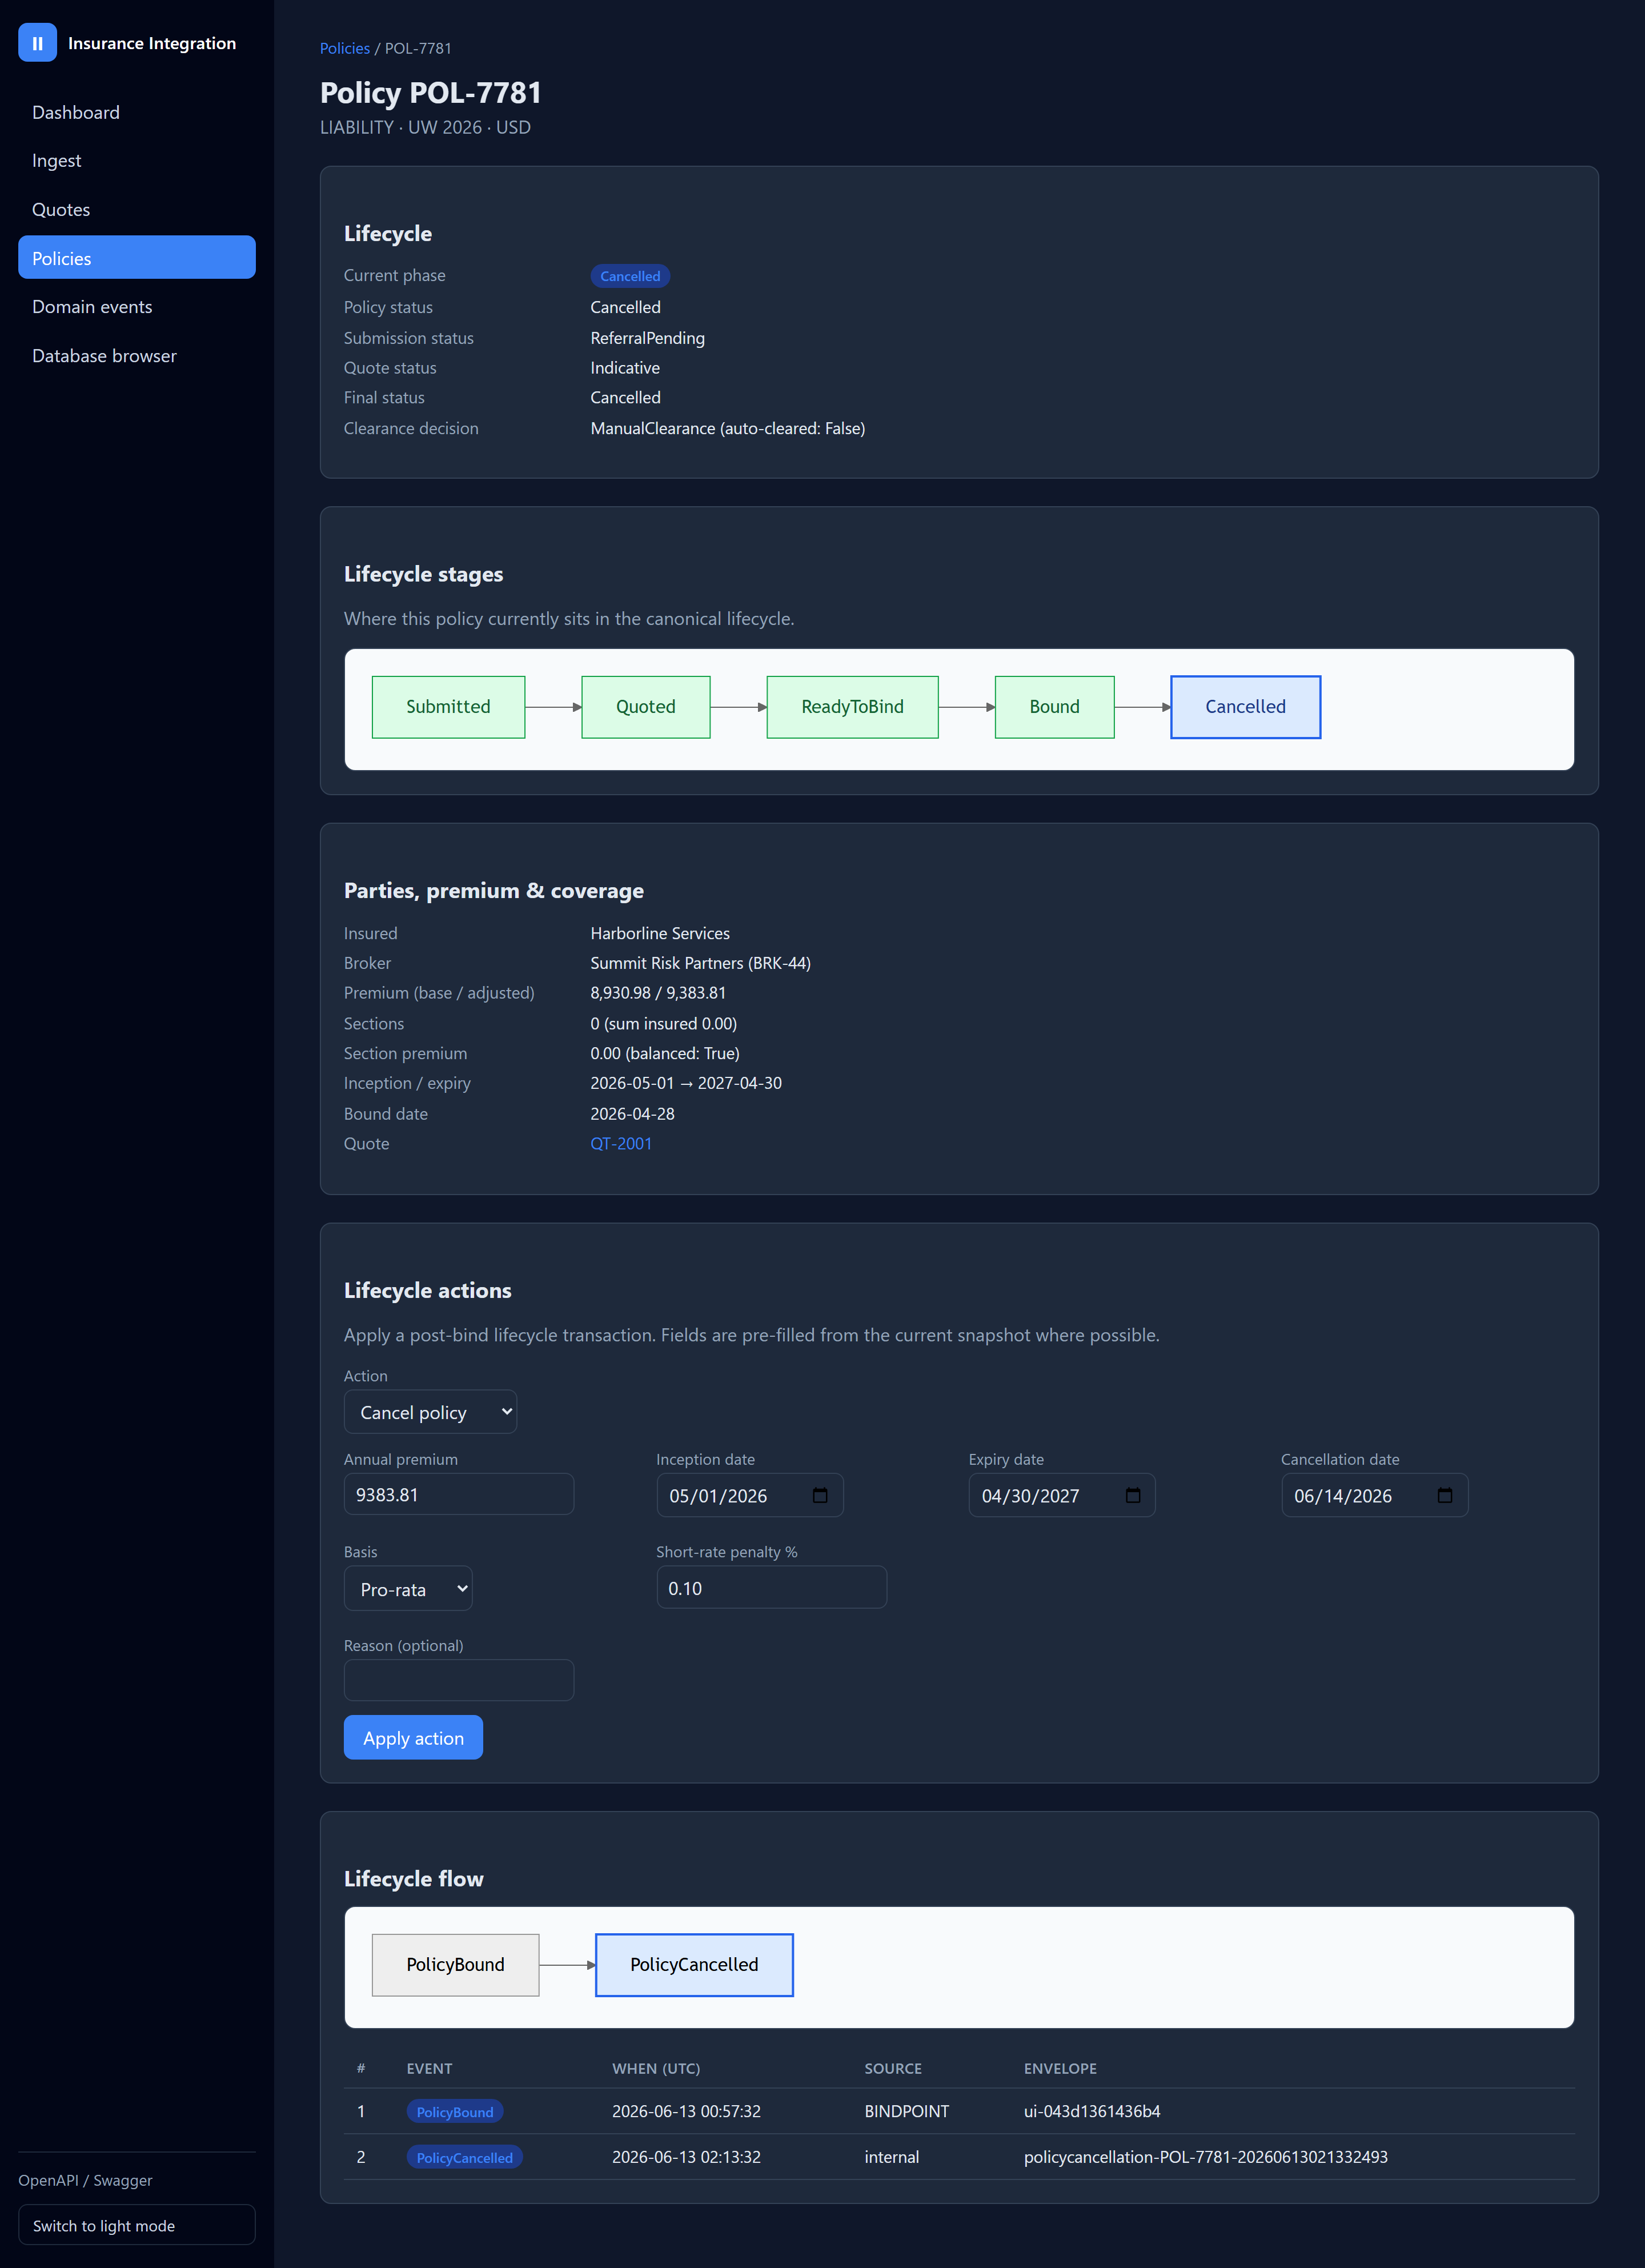
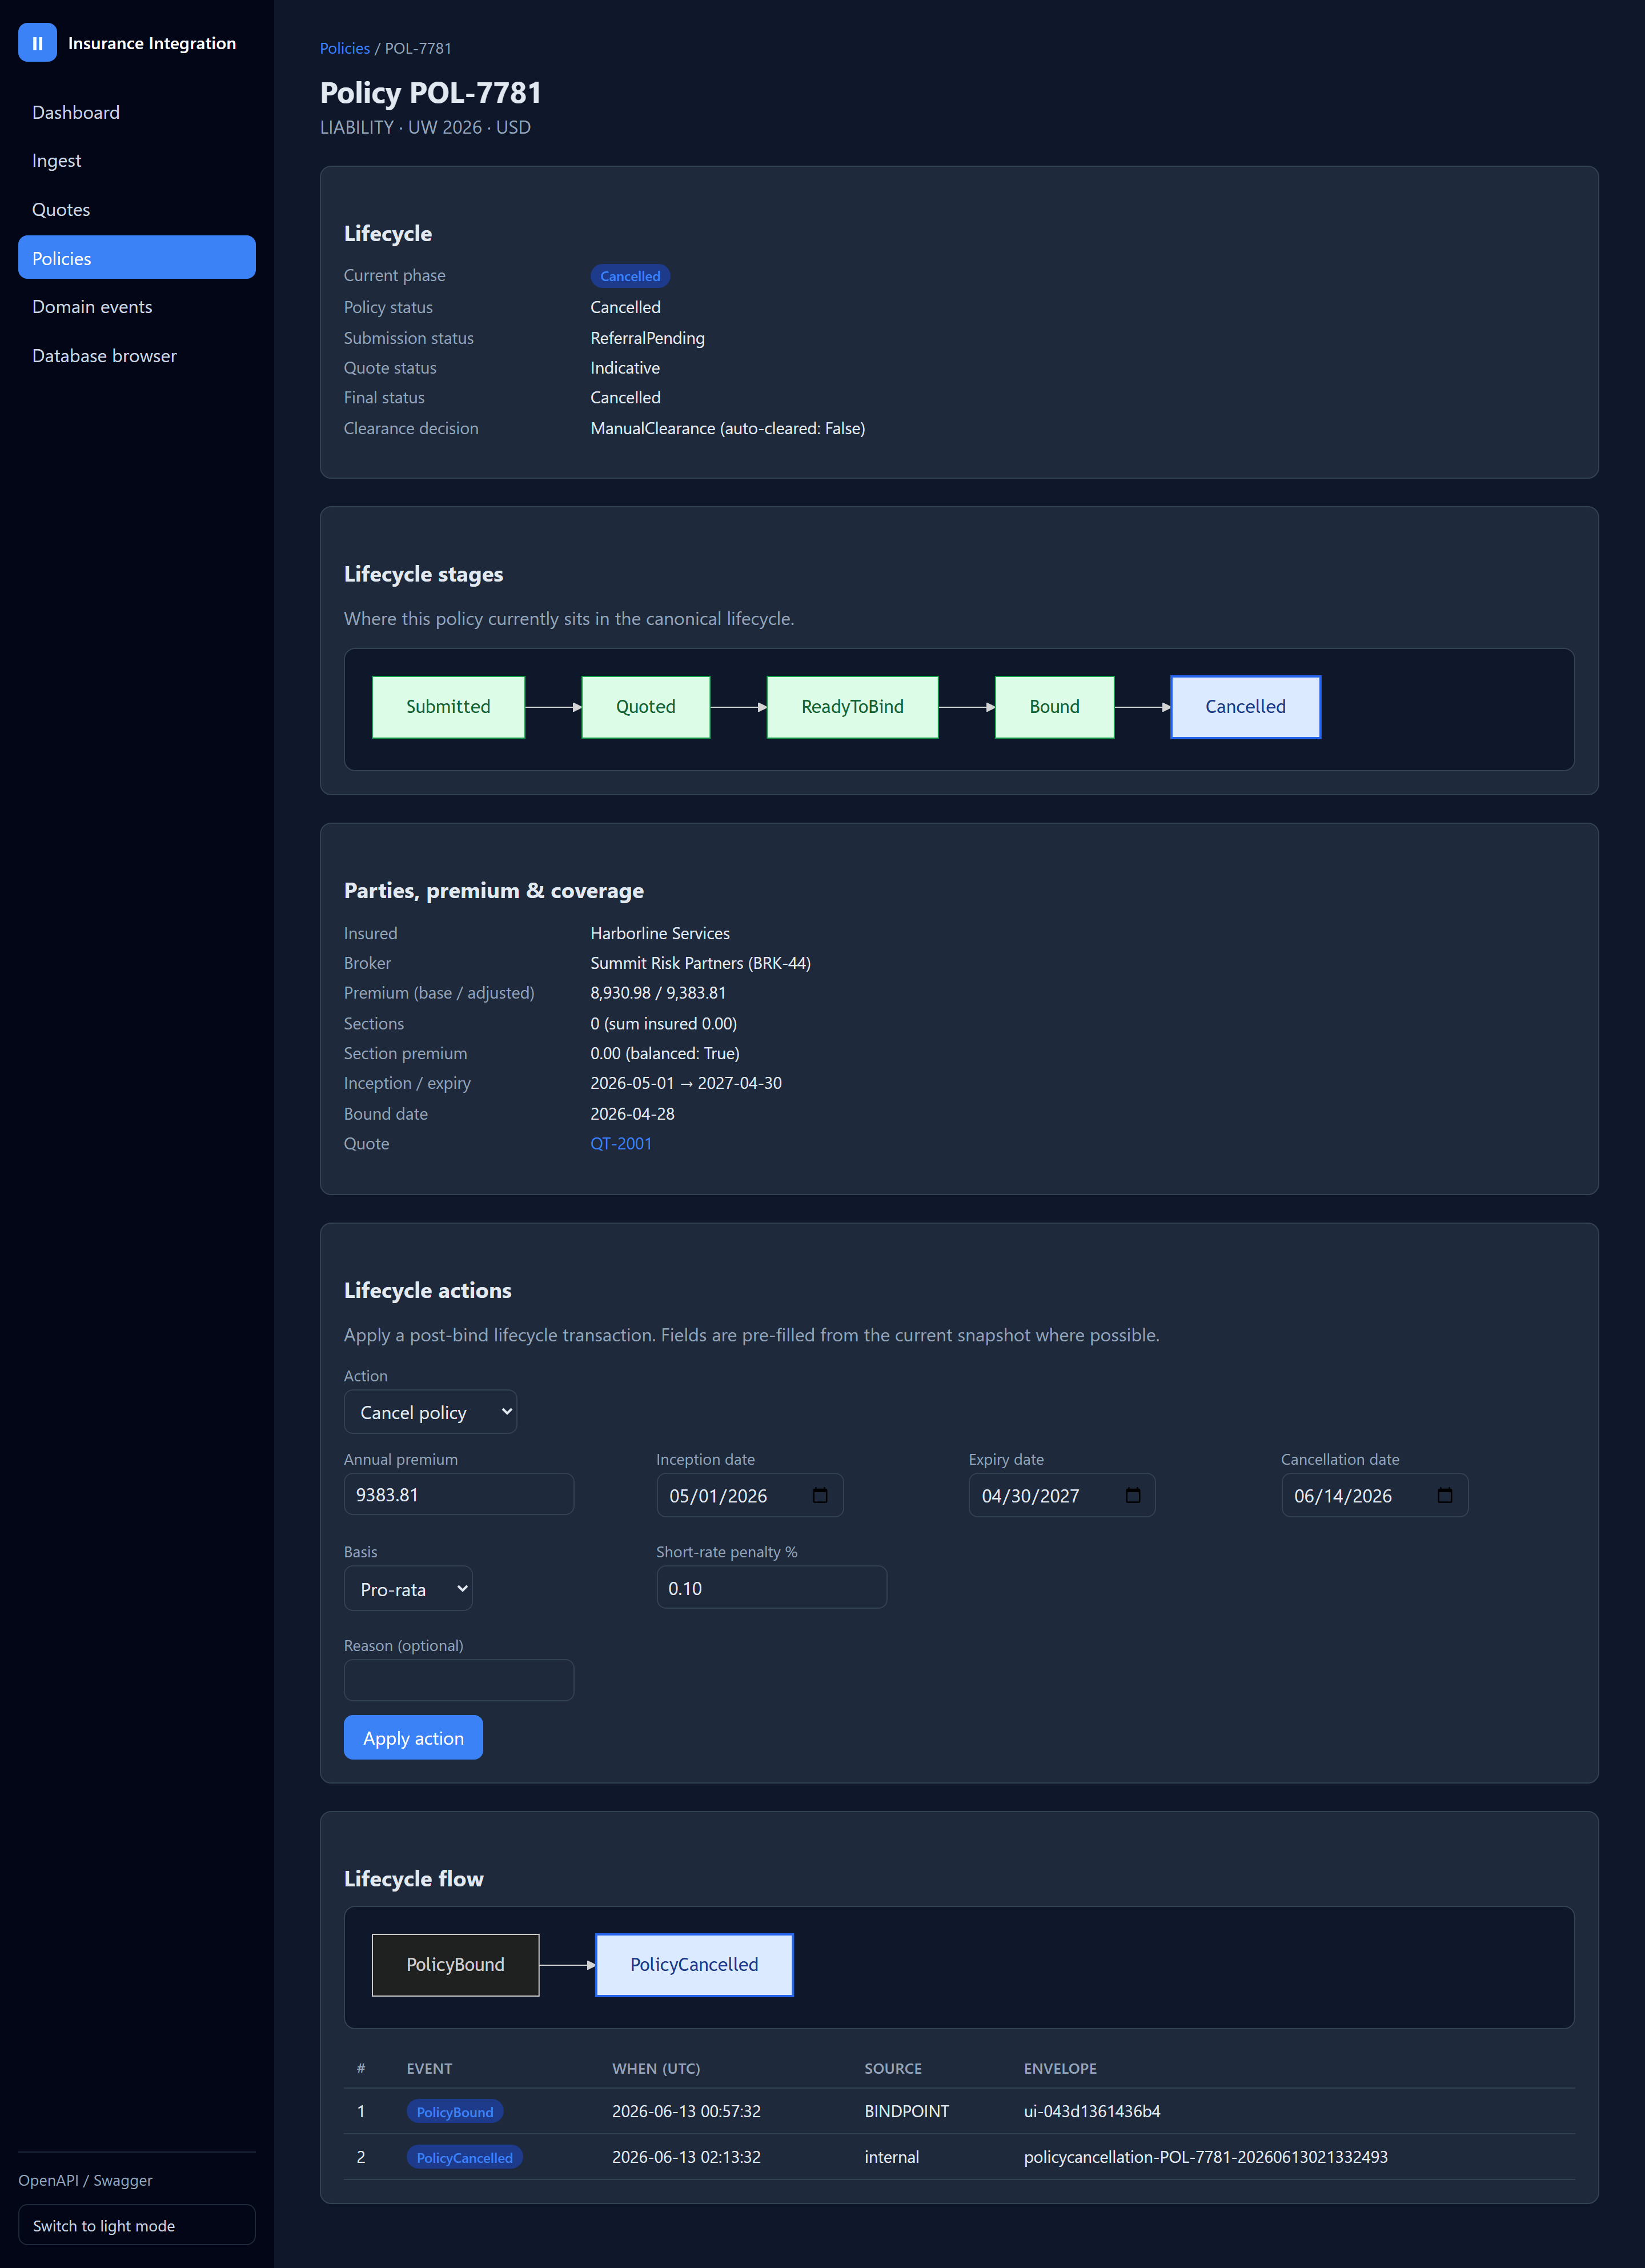
feat(ui): theme-aware Mermaid diagrams + dark-mode screenshots
Mermaid lifecycle diagrams now mirror the document light/dark theme:
- mermaidInterop picks Mermaid's dark/neutral theme from data-theme and
  sets themeVariables.background to the computed --panel-muted surface so
  the diagram canvas matches the panel instead of a white rectangle.
- Cache each rendered diagram and re-render all on theme toggle
  (themeInterop.set calls mermaidInterop.rerenderAll).
- Drop the .mermaid-diagram dark-mode background override in app.css.
- EventFlowDiagram 'current' node gets explicit dark text for legibility.
Recaptured docs/screenshots/01..07 in dark mode.

Changed region(s): [[0.1875, 0.8433, 0.9688, 0.9058], [0.1875, 0.2811, 0.9688, 0.3436]]

diff --git a/src/InsuranceIntegration.Api/wwwroot/js/app.js b/src/InsuranceIntegration.Api/wwwroot/js/app.js
@@ -15,6 +15,11 @@ window.themeInterop = {
         } catch (e) {
             // Ignore storage failures (e.g. private mode); theme still applies for this session.
         }
+        // Mermaid bakes the theme into the SVG at render time, so re-render any
+        // existing diagrams to match the new light/dark theme.
+        if (window.mermaidInterop && typeof window.mermaidInterop.rerenderAll === "function") {
+            window.mermaidInterop.rerenderAll();
+        }
         return next;
     },
 
@@ -25,7 +30,11 @@ window.themeInterop = {
 
 // Mermaid interop for the domain-event flow diagram.
 window.mermaidInterop = {
-    initialized: false,
+    initializedTheme: null,
+
+    // Remember each rendered diagram so it can be re-rendered when the light/dark
+    // theme changes (Mermaid bakes the theme into the SVG at render time).
+    diagrams: new Map(),
 
     // Resolve once the Mermaid script has finished loading. The component's
     // OnAfterRenderAsync can fire before the script is ready, so we poll
@@ -50,13 +59,49 @@ window.mermaidInterop = {
         });
     },
 
+    // Mermaid's "dark" theme renders light text and edges for a dark surface;
+    // "neutral" suits the light theme. Mirror the document's data-theme.
+    themeForDocument: function () {
+        return document.documentElement.getAttribute("data-theme") === "dark" ? "dark" : "neutral";
+    },
+
     ensureInit: function () {
-        if (this.initialized || typeof mermaid === "undefined") {
+        if (typeof mermaid === "undefined") {
             return;
         }
 
-        mermaid.initialize({ startOnLoad: false, securityLevel: "strict", theme: "neutral" });
-        this.initialized = true;
+        const theme = this.themeForDocument();
+        if (this.initializedTheme === theme) {
+            return;
+        }
+
+        // Match the diagram canvas to the surrounding panel so there is no bright
+        // rectangle in dark mode.
+        const surface = getComputedStyle(document.documentElement)
+            .getPropertyValue("--panel-muted").trim();
+        mermaid.initialize({
+            startOnLoad: false,
+            securityLevel: "strict",
+            theme: theme,
+            themeVariables: surface ? { background: surface } : {}
+        });
+        this.initializedTheme = theme;
+    },
+
+    renderInto: async function (elementId, definition) {
+        try {
+            const { svg } = await mermaid.render(elementId + "-svg", definition);
+            const element = document.getElementById(elementId);
+            if (element) {
+                element.innerHTML = svg;
+            }
+        } catch (err) {
+            const element = document.getElementById(elementId);
+            if (element) {
+                element.innerHTML = "<p class='muted'>Unable to render flow diagram.</p>";
+            }
+            console.error("mermaid render failed", err);
+        }
     },
 
     render: async function (elementId, definition) {
@@ -67,6 +112,7 @@ window.mermaidInterop = {
 
         if (!definition) {
             element.innerHTML = "";
+            this.diagrams.delete(elementId);
             return;
         }
 
@@ -76,14 +122,30 @@ window.mermaidInterop = {
             return;
         }
 
+        this.diagrams.set(elementId, definition);
         this.ensureInit();
+        await this.renderInto(elementId, definition);
+    },
 
-        try {
-            const { svg } = await mermaid.render(elementId + "-svg", definition);
-            element.innerHTML = svg;
-        } catch (err) {
-            element.innerHTML = "<p class='muted'>Unable to render flow diagram.</p>";
-            console.error("mermaid render failed", err);
+    // Re-render every cached diagram (e.g. after the theme changes) so existing
+    // diagrams pick up the new Mermaid theme.
+    rerenderAll: async function () {
+        if (this.diagrams.size === 0) {
+            return;
+        }
+
+        const ready = await this.waitForMermaid(5000);
+        if (!ready) {
+            return;
+        }
+
+        this.ensureInit();
+        for (const [elementId, definition] of this.diagrams) {
+            if (document.getElementById(elementId)) {
+                await this.renderInto(elementId, definition);
+            } else {
+                this.diagrams.delete(elementId);
+            }
         }
     }
 };

diff --git a/src/InsuranceIntegration.Api/wwwroot/app.css b/src/InsuranceIntegration.Api/wwwroot/app.css
@@ -404,10 +404,6 @@ pre.code {
     overflow-x: auto;
 }
 
-html[data-theme="dark"] .mermaid-diagram {
-    background: #f8fafc;
-}
-
 .pager {
     display: flex;
     gap: 0.5rem;

diff --git a/src/InsuranceIntegration.Api/Services/Ui/EventFlowDiagram.cs b/src/InsuranceIntegration.Api/Services/Ui/EventFlowDiagram.cs
@@ -35,7 +35,7 @@ public static class EventFlowDiagram
         }
 
         builder.Append("    class n").Append(ordered.Count - 1).Append(" current;\n");
-        builder.Append("    classDef current fill:#dbeafe,stroke:#2563eb,stroke-width:2px;\n");
+        builder.Append("    classDef current fill:#dbeafe,stroke:#2563eb,stroke-width:2px,color:#1e3a8a;\n");
 
         return builder.ToString();
     }

diff --git a/PROGRESS.md b/PROGRESS.md
@@ -146,6 +146,15 @@ Docker-capable VPS.
   dev helpers (start/stop the app, free port 5000) and matching VS Code "Start app" / "Stop app"
   tasks (`.vscode/tasks.json` un-ignored in `.gitignore` so it is shared). Docs + Razor UI + dev
   tooling only; no new tests (still 257) (2026-06-14).
+- [x] **Dark-mode UI screenshots + theme-aware Mermaid diagrams.** Recaptured all seven
+  `docs/screenshots/01..07` in dark mode, and made the Mermaid lifecycle diagrams theme-aware so
+  their canvas matches the dark panel instead of rendering a bright white rectangle. `mermaidInterop`
+  (`wwwroot/js/app.js`) now picks Mermaid's `dark`/`neutral` theme from the document `data-theme`,
+  sets `themeVariables.background` to the computed `--panel-muted` surface, caches each rendered
+  diagram, and re-renders them all when the theme toggles; the `.mermaid-diagram` dark-mode
+  background override was removed from `app.css`, and `EventFlowDiagram` gives the highlighted
+  "current" node explicit dark text so it stays legible. Static assets + one diagram-builder string
+  only; no new tests (still 257) (2026-06-14).
 ## Current status
 
 - Build green (`dotnet build -c Release`); **all 257 tests pass** (DB browser environment gate added
@@ -171,11 +180,14 @@ Docker-capable VPS.
   with a new `docs/README.md` index as the entry point; source-path breadcrumbs in the guides
   normalized to repository-root-relative form (`src/...`, `tests/...`). Documentation-only change —
   no code/build/test impact.
-- **Working on now:** **README human-friendly rewrite + UI screenshots (2026-06-14)** — `README.md`
-  now opens with a plain-language explanation, a Mermaid pipeline diagram, a "Run it locally"
-  quick-start, and a **"Visual tour"** embedding seven UI screenshots (`docs/screenshots/01..07`),
-  while keeping all the existing technical sections. The Quotes/Policies/Events list pagers were also
-  made 1-based to match the Database page. Earlier on 2026-06-14: the **DB browser environment gate**
+- **Working on now:** **Dark-mode UI polish (2026-06-14)** — recaptured the seven Visual-tour
+  screenshots (`docs/screenshots/01..07`) in dark mode and made the Mermaid lifecycle diagrams
+  theme-aware (dark canvas matching `--panel-muted`, re-render on theme toggle) so they no longer
+  show a white rectangle in dark mode. Preceded by the **README human-friendly rewrite + UI
+  screenshots** — `README.md` now opens with a plain-language explanation, a Mermaid pipeline
+  diagram, a "Run it locally" quick-start, and a **"Visual tour"** embedding the seven UI
+  screenshots, while keeping all the existing technical sections. The Quotes/Policies/Events list
+  pagers were also made 1-based to match the Database page. Earlier on 2026-06-14: the **DB browser environment gate**
   — the read-only `/database` browser is now gated by `DatabaseBrowserGate` +
   `DatabaseBrowserGateMiddleware` (off → 404 outside Development unless `DatabaseBrowser__Enabled=true`);
   the nav link and page render on the same gate. This closes the pre-production "Next steps #2"
@@ -197,7 +209,11 @@ Docker-capable VPS.
 - Mermaid: `Services/Ui/EventFlowDiagram.cs` builds the flowchart; `wwwroot/js/app.js`
   (`mermaidInterop.render`) renders it via the locally-vendored `wwwroot/js/mermaid.min.js`
   (pinned `mermaid@11.6.0`, UMD build exposing `globalThis.mermaid`), referenced from
-  `Components/App.razor`. No CDN/network dependency at runtime.
+  `Components/App.razor`. No CDN/network dependency at runtime. `mermaidInterop` is **theme-aware**:
+  it initializes Mermaid with the `dark`/`neutral` theme from the document `data-theme`, sets
+  `themeVariables.background` to the computed `--panel-muted` surface, caches each diagram, and
+  `themeInterop.set` calls `mermaidInterop.rerenderAll()` so diagrams re-render on a light/dark
+  toggle.
 - Components: `Components/{App,Routes,_Imports}.razor`, `Components/Layout/*`,
   `Components/Shared/EventFlow.razor`, `Components/Pages/{Home,Ingest,Quotes,QuoteDetail,Policies,
   PolicyDetail,Events,Database}.razor`. Styles in `wwwroot/app.css`.